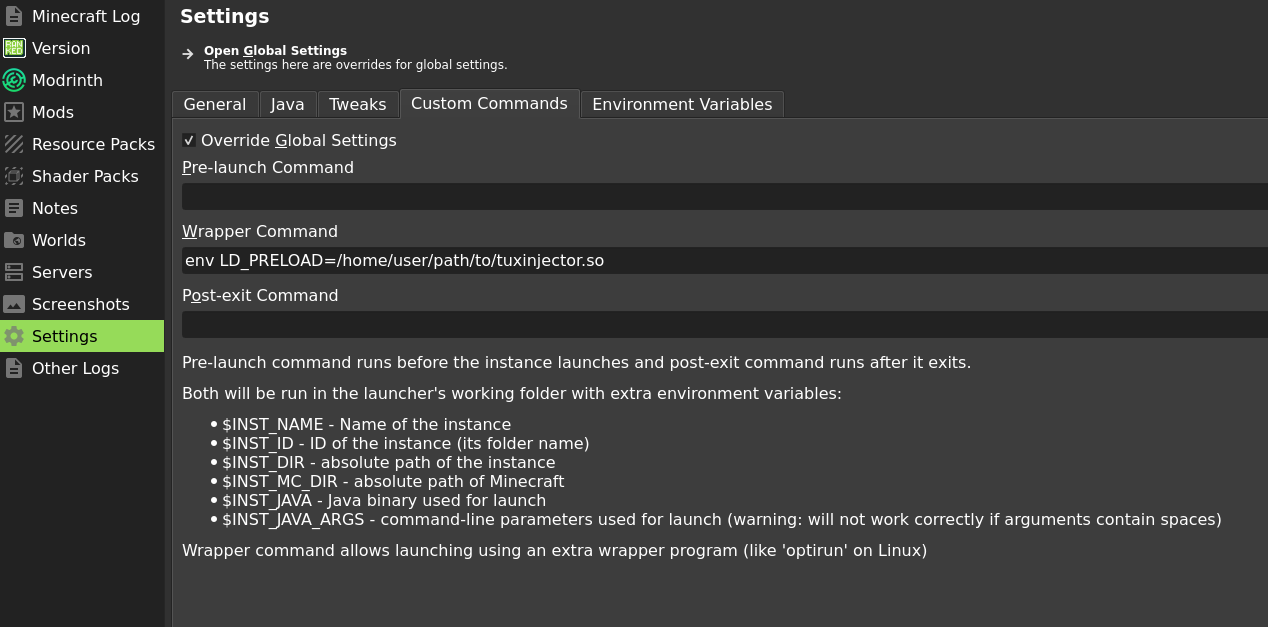
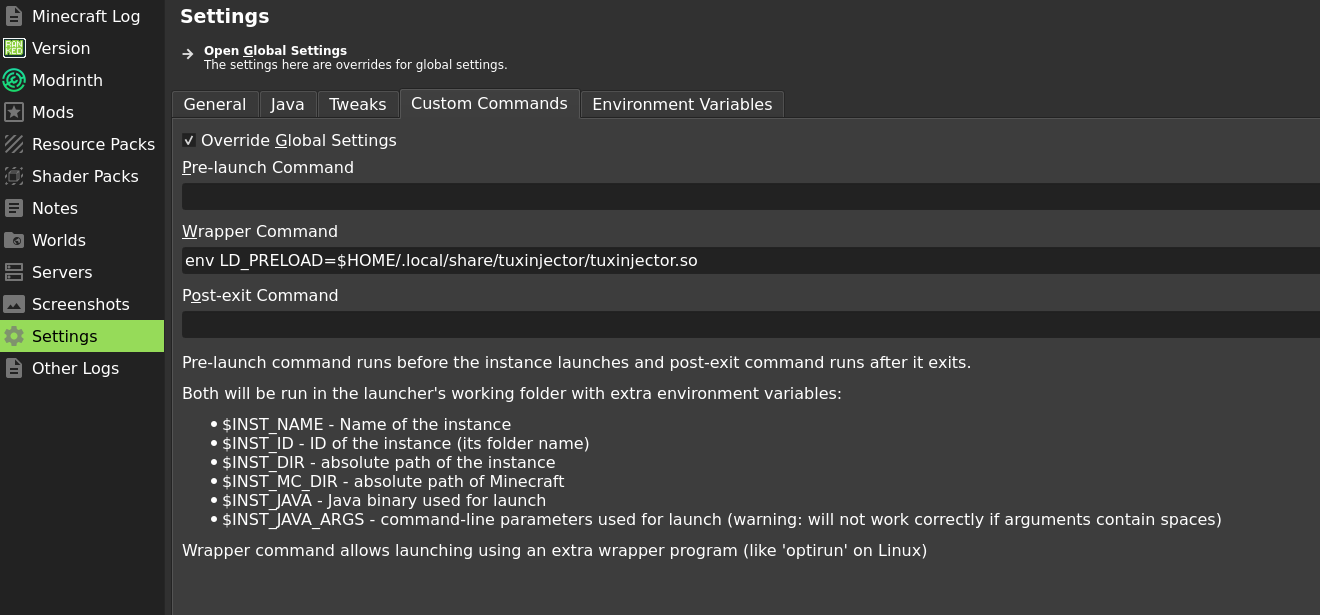
feat: update usage -> usage & installation guide, with instructions for nixos.

Changed region(s): [[0.0, 0.0, 1.0, 0.9268], [0.123, 0.1545, 0.6151, 0.1854], [0.6151, 0.1854, 1.0, 0.2163]]

diff --git a/docs/tuxinjector/src/installation.md b/docs/tuxinjector/src/installation.md
@@ -1,0 +1,85 @@
+# Installation & Usage
+
+## Installation
+
+When installing Tux Injector, it is reccomended to put the library at a permanant path, such as `~/.local/share/tuxinjector`. You can also download the latest release and move the binary there manually.
+
+```bash
+mkdir -p ~/.local/share/tuxinjector
+curl -fL https://github.com/flammablebunny/tuxinjector/releases/latest/download/tuxinjector.so -o ~/.local/share/tuxinjector/tuxinjector.so
+```
+
+!!! note
+    NixOS users should skip this and follow the [NixOS](#nixos) section below instead.
+
+## Prism Launcher
+
+To inject Tuxinjector into Minecraft while using [Prism Launcher](https://prismlauncher.org/), you need to set a **Wrapper Command** in its settings.
+
+### Steps
+
+1. Open Prism Launcher and select your Minecraft instance.
+2. Click **Settings** in the sidebar.
+3. Go to the **Custom Commands** tab.
+4. Check **Override Global Settings** if it isn't already enabled.
+5. In the **Wrapper Command** field, enter:
+
+    ```
+    env LD_PRELOAD=$HOME/.local/share/tuxinjector/tuxinjector.so
+    ```
+
+6. Launch the instance normally.
+
+![Image of Prism Launcher Custom Commands tab, showing the wrapper command](images/wrapper-prism.png)
+
+!!! tip
+    Unlike [waywall](https://github.com/tesselslate/waywall) which uses `waywall --wrap` as the wrapper command to launch a nested compositor, Tuxinjector injects **directly** into the game process via `LD_PRELOAD`. The `env` command simply sets the environment variable that tells the dynamic linker to load Tuxinjector's shared library into Java before Minecraft starts.
+
+
+!!! note
+    You can also set this globally under **Settings > Custom Commands** in Prism Launcher's main window, which will apply to all instances.
+
+!!! note
+    You can also set the under the Environment Variables tab, by setting the name to `LD_PRELOAD`, and the value as the path to your .so file.
+
+## NixOS
+
+On NixOS, libraries aren't in standard paths, so companion apps (NinjaBrain Bot, etc.) need extra setup to find X11 libraries. Tuxinjector's flake provides a wrapper that handles this automatically.
+
+### Installation
+
+Add Tuxinjector as a flake input in your NixOS or home-manager configuration:
+
+```nix
+# flake.nix
+inputs.tuxinjector = {
+  url = "github:flammablebunny/tuxinjector";
+  inputs.nixpkgs.follows = "nixpkgs";
+};
+```
+
+Then add the package to your user's packages:
+
+```nix
+# In your home.nix or configuration.nix
+home.packages = [
+  inputs.tuxinjector.packages.x86_64-linux.default
+];
+```
+
+Rebuild your system (`nixos-rebuild switch`).
+
+### Prism Launcher Setup
+
+Set the **Wrapper Command** in Prism Launcher to:
+
+```
+tuxinjector
+```
+
+That's all. The wrapper sets `LD_PRELOAD` and `TUXINJECTOR_X11_LIBS` automatically, so companion apps can find the X11 libraries they need.
+
+!!! note
+    The wrapper is Garbage Collector rooted by your system closure, so the library paths it references won't be garbage collected.
+
+<!-- TODO: Update this for MCSR Launcher, hopefully by using the Tools Tab just like how toolscreen does it ^_^ -->
